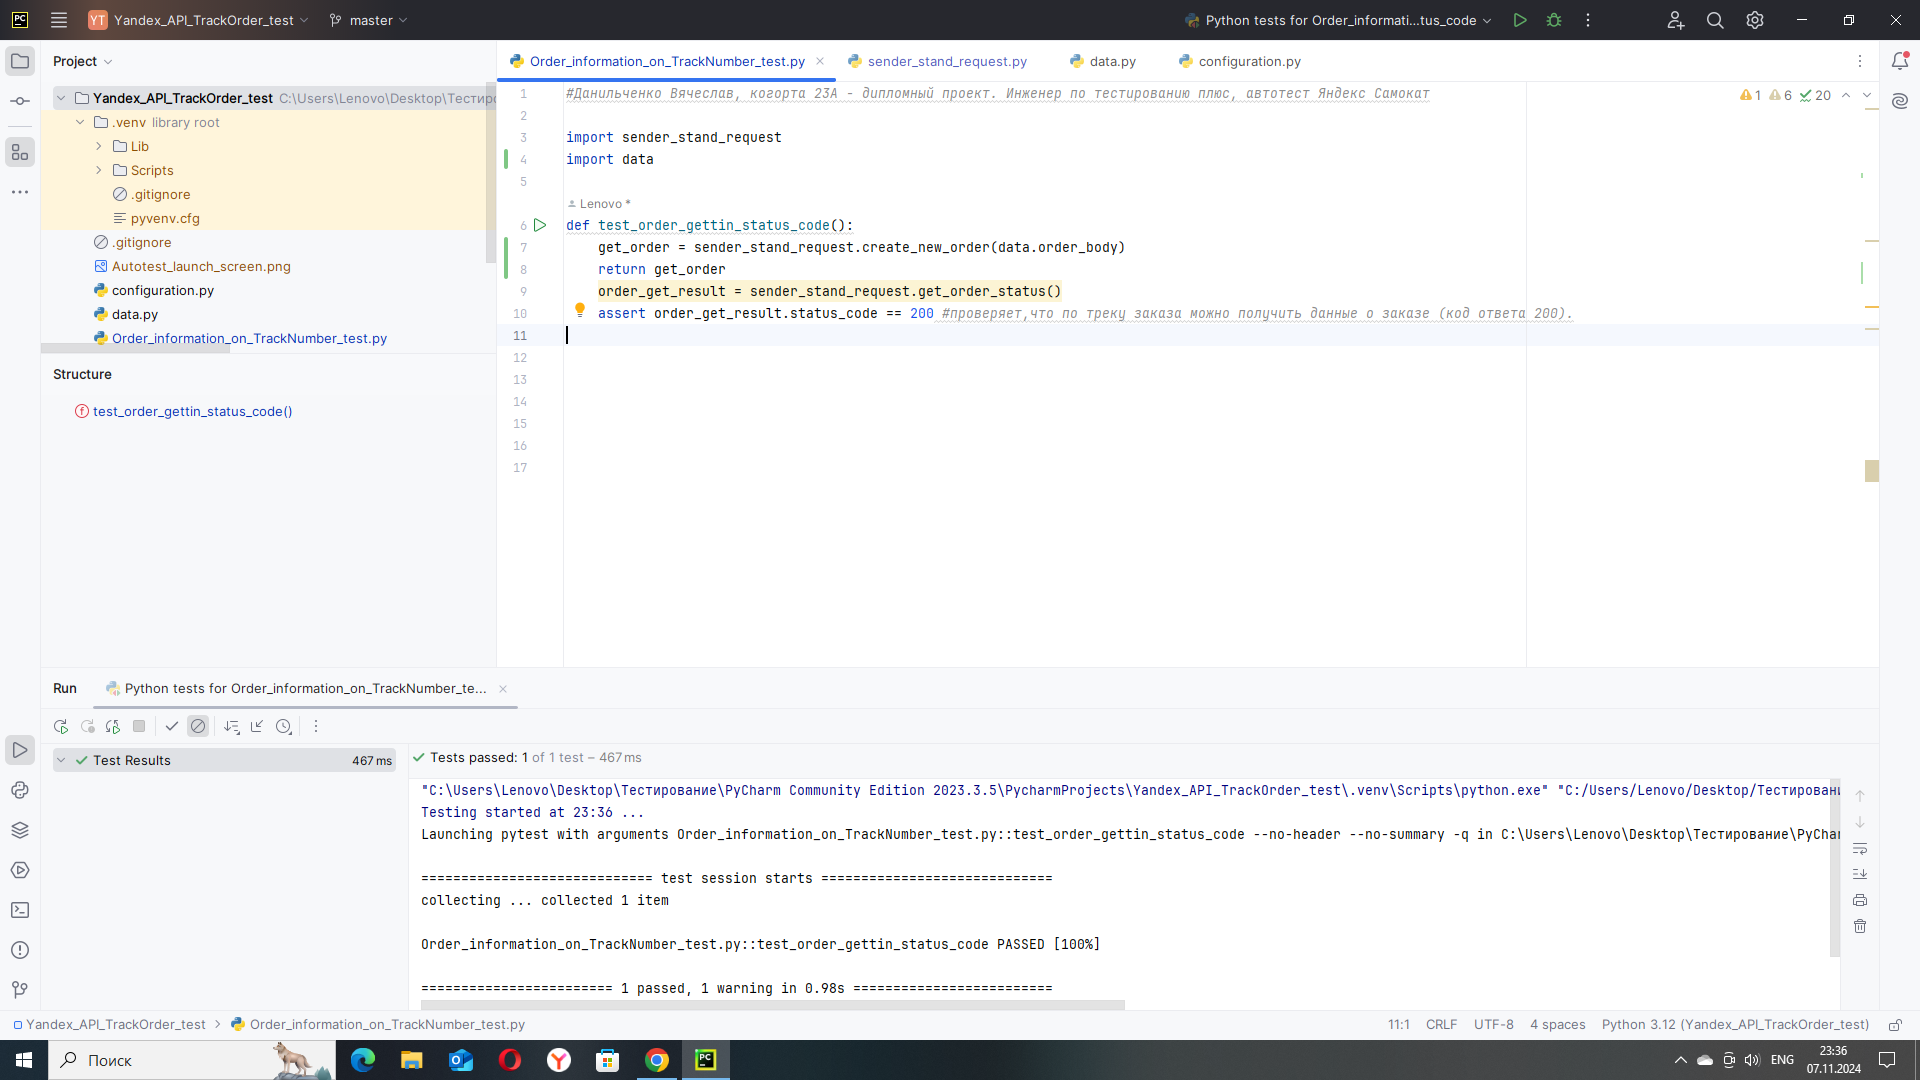
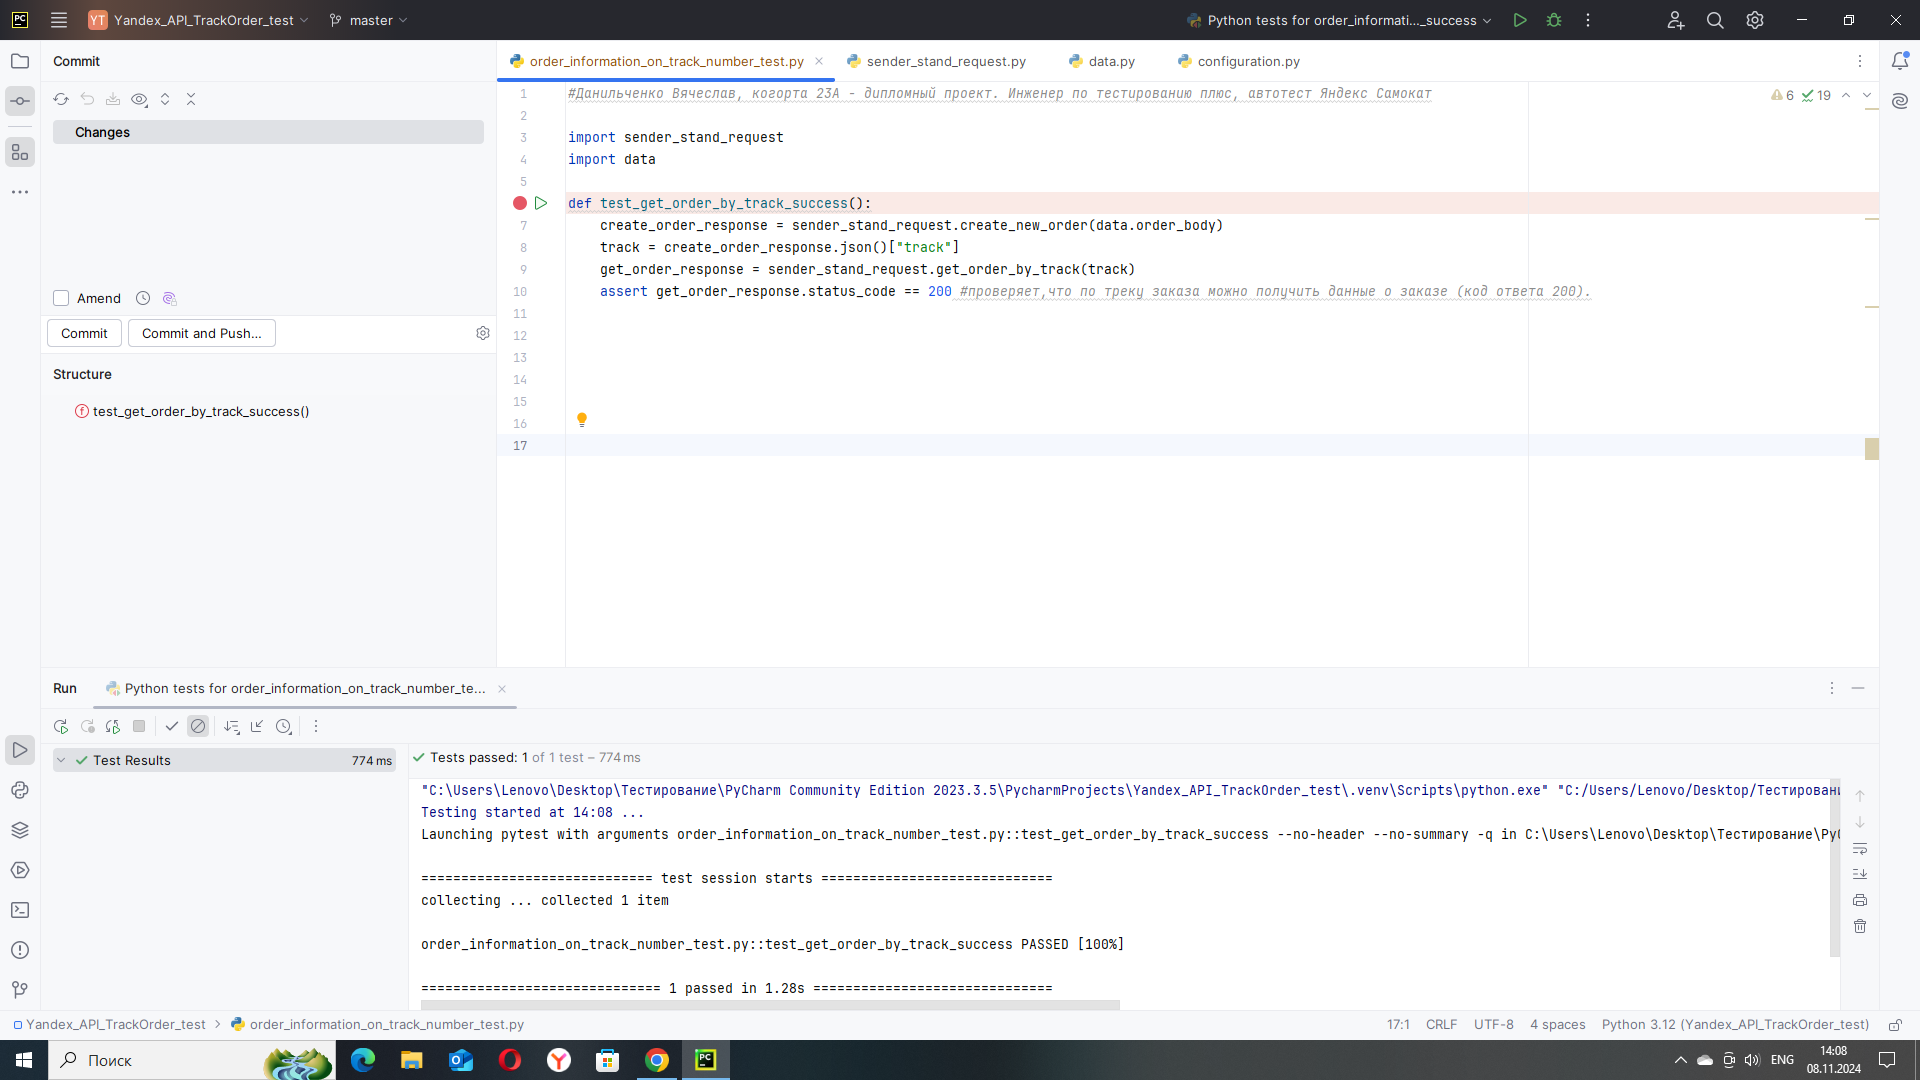
Add files via upload

diff --git a/sender_stand_request.py b/sender_stand_request.py
@@ -1,14 +1,15 @@
 import configuration
 import requests
 import data
-import Order_information_on_TrackNumber_test as Order
+
 def create_new_order(body):
     return requests.post(configuration.URL_SERVICE + configuration.MAKING_NEW_ORDER, #Функция для создания нового заказа
                          json=body,
                          headers=data.headers)
-def get_order_status():
-    return requests.get(configuration.URL_SERVICE + configuration.GET_ORDER_STATUS,#Функция запроса заказа по трек номеру
-                        params=Order.get_order.text)
+def get_order_by_track(track):
+    params = {"t": track}
+    return requests.get(configuration.URL_SERVICE + configuration.GET_ORDER_STATUS,
+                        params=params)
 
 
 

diff --git a/order_information_on_track_number_test.py b/order_information_on_track_number_test.py
@@ -1,0 +1,16 @@
+#Данильченко Вячеслав, когорта 23А - дипломный проект. Инженер по тестированию плюс, автотест Яндекс Самокат
+
+import sender_stand_request
+import data
+
+def test_get_order_by_track_success():
+    create_order_response = sender_stand_request.create_new_order(data.order_body)
+    track = create_order_response.json()["track"]
+    get_order_response = sender_stand_request.get_order_by_track(track)
+    assert get_order_response.status_code == 200 #проверяет,что по треку заказа можно получить данные о заказе (код ответа 200).
+
+
+
+
+
+
